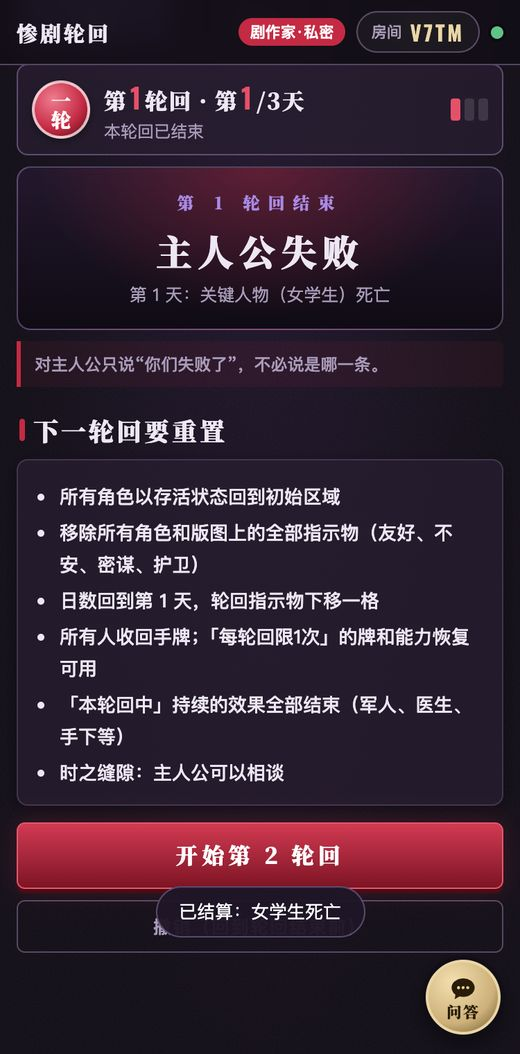
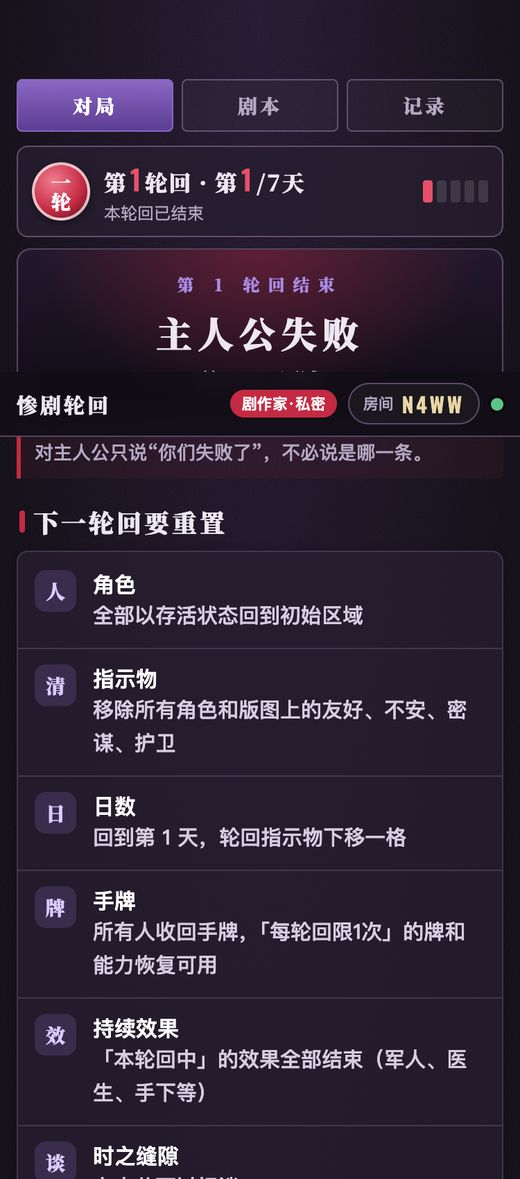
剧作家流程 UI：阶段卡片、分组提醒、步骤式摆放清单、轮回重置列表，放大加粗文字，底部固定操作栏

diff --git a/public/app.js b/public/app.js
@@ -11,6 +11,20 @@ const store = {
 };
 const ZH = ['零', '一', '二', '三', '四', '五', '六', '七', '八', '九', '十'];
 const LV = { must: '强制', loss: '可判负', may: '任意', info: '提示' };
+// Groups of the reminder list, in the order the rules resolve them.
+const GROUPS = [['must', '必须结算', '条件满足，规则不让你选'], ['loss', '可以让主人公失败', '任意能力，用不用由你决定'], ['may', '可以使用', '任意能力和每轮回 1 次的牌'], ['info', '留意', '']];
+// One line on what happens in each phase.
+const PHASE_TIP = {
+  dayStart: '有角色今天登场就放上版图，确认今天是不是最后一天',
+  mmCards: '你从手牌选 3 张，背面朝上放在 3 个不同的角色或版图上',
+  proCards: '队长先出，每名主人公各暗置 1 张',
+  resolve: '翻开 6 张牌，先结算移动，再结算其他牌',
+  mmAbility: '使用身份和规则给你的能力，每个能力各用 1 次',
+  gwAbility: '主人公宣言友好能力，你决定结算还是拒绝',
+  incident: '判定今天的事件是否发生，发生就结算效果',
+  leader: '队长卡交给左手边的主人公',
+  dayEnd: '先结算强制能力，再决定要不要用任意能力'
+};
 
 const qs = new URLSearchParams(location.search);
 let code = cleanCode(qs.get('r'));
@@ -74,6 +88,7 @@ function render() {
   t.innerHTML = view();
   morph($('#app'), t);
   $('#sheet').innerHTML = ui.sheet && S ? sheetView() : '';
+  document.body.classList.toggle('has-dock', !!$('.dock'));
   // keep the current phase in view on the phase strip
   const strip = $('.phases'), on = strip?.querySelector('.on');
   if (on && render.ph !== `${S.loop}-${S.day}-${S.ph}`) { render.ph = `${S.loop}-${S.day}-${S.ph}`; strip.scrollLeft = on.offsetLeft - strip.clientWidth / 2 + on.offsetWidth / 2; }
@@ -188,18 +203,20 @@ function checklist(sc) {
   const cast = Object.keys(sc.cast).map(id => { const ex = extraOf(sc, id), st = CHARS[id].start;
     return `${CHARS[id].name}（${ex.enterLoop ? `第 ${ex.enterLoop} 轮回才登场，${LOC_ZH[st]}` : ex.enterDay ? `第 ${ex.enterDay} 天才登场，${LOC_ZH[st]}` : st ? LOC_ZH[st] : '初始区域自选'}）`; }).join('、');
   const items = [
-    `拿出「${set.name}」模组速查表，放在大家都看得到的地方`,
-    `写公开信息卡（交给主人公）：模组 ${set.name}、${opt[0]} 轮回、每轮回 ${sc.days} 天、事件日程 ${sc.incidents.map(([d, k]) => `第${d}天${INCIDENTS[k].name}`).join('、')}${sc.special.length ? `、特殊规则：${sc.special.join('；')}` : ''}`,
-    `写非公开信息卡（自己收好）：规则Y ${PLOTS[sc.y].name}，规则X ${sc.x.map(x => PLOTS[x].name).join('、')}，各角色身份，事件当事人`,
-    `摆 4 块版图：左上医院、右上神社、左下都市、右下学校`,
-    `放角色卡到初始区域：${cast}`,
-    ...Object.entries(sc.extra || {}).filter(([, ex]) => ex.turf).map(([id, ex]) => `${CHARS[id].name}的领地是${LOC_ZH[ex.turf]}：在${LOC_ZH[ex.turf]}放领地标志`),
-    `轮回指示物放在 ${opt[0]}，日数指示物放在第 1 天；事件指示物放到各事件日`,
-    `剧作家手牌 10 张：移动↑↓、移动←→、移动斜向（每轮回1次）、禁止友好、不安+1 ×2、不安−1、禁止不安、密谋+1、密谋+2（每轮回1次）${sc.special.length ? `——特殊规则：${sc.special.join('；')}` : ''}`,
-    '每名主人公 8 张：移动↑↓、移动←→、移动禁止、友好+1、友好+2、不安+1、不安−1、禁止密谋（禁止移动、友好+2、不安−1 每轮回限1次）',
-    '决定首任队长，把队长卡交给他；时之缝隙里主人公可以相谈'
+    ['摆出模组速查表', `「${set.name}」速查表放在大家都看得到的地方`],
+    ['写公开信息卡，交给主人公', `模组 ${set.name}、${opt[0]} 轮回、每轮回 ${sc.days} 天；事件日程：${sc.incidents.map(([d, k]) => `第${d}天${INCIDENTS[k].name}`).join('、')}${sc.special.length ? `；特殊规则：${sc.special.join('；')}` : ''}`],
+    ['写非公开信息卡，自己收好', `规则Y ${PLOTS[sc.y].name}，规则X ${sc.x.map(x => PLOTS[x].name).join('、')}，各角色身份，事件当事人`],
+    ['摆 4 块版图', '左上医院、右上神社、左下都市、右下学校'],
+    ['放角色卡到初始区域', cast],
+    ...Object.entries(sc.extra || {}).filter(([, ex]) => ex.turf).map(([id, ex]) => [`放${CHARS[id].name}的领地标志`, `领地是${LOC_ZH[ex.turf]}`]),
+    ['放指示物', `轮回指示物放在 ${opt[0]}，日数指示物放在第 1 天，事件指示物放到各事件日`],
+    ['剧作家手牌 10 张', `移动↑↓、移动←→、移动斜向（每轮回1次）、禁止友好、不安+1 ×2、不安−1、禁止不安、密谋+1、密谋+2（每轮回1次）${sc.special.length ? `。特殊规则：${sc.special.join('；')}` : ''}`],
+    ['每名主人公 8 张手牌', '移动↑↓、移动←→、移动禁止、友好+1、友好+2、不安+1、不安−1、禁止密谋；移动禁止、友好+2、不安−1 每轮回限 1 次'],
+    ['决定首任队长', '把队长卡交给他；时之缝隙里主人公可以相谈']
   ];
-  return `<div class="card">${items.map((x, i) => `<label class="check${done[i] ? ' done' : ''}" data-k="ck-${sc.id}-${i}"><input type="checkbox" data-act="check" data-i="${i}" ${done[i] ? 'checked' : ''}><span>${esc(x)}</span></label>`).join('')}</div>`;
+  const n = items.filter((x, i) => done[i]).length;
+  return `<div class="card steps"><div class="steps-top"><span>已完成 ${n}/${items.length}</span><div class="steps-bar"><i style="width:${Math.round(n / items.length * 100)}%"></i></div></div>
+    ${items.map(([h, x], i) => `<label class="step${done[i] ? ' done' : ''}" data-k="ck-${sc.id}-${i}"><input type="checkbox" data-act="check" data-i="${i}" ${done[i] ? 'checked' : ''}><span class="sn">${done[i] ? '✓' : i + 1}</span><span class="st"><b>${esc(h)}</b><span>${esc(x)}</span></span></label>`).join('')}</div>`;
 }
 
 function inviteCard() {
@@ -214,27 +231,41 @@ function qrData(text) {
 }
 
 function playView(sc) {
-  const rem = reminders(S), cur = PHASES[S.ph].k, last = S.day === sc.days;
-  const items = ui.all ? PHASES.flatMap(p => (rem[p.k] || []).length ? [`<div class="fq-cat" style="margin:10px 2px 2px">${p.n}</div>`, ...(rem[p.k]).map(remItem)] : []) : (rem[cur] || []).map(remItem);
-  const nextBtn = S.ph < PHASES.length - 1 ? `<button class="btn" data-act="phnext">下一阶段：${PHASES[S.ph + 1].n}</button>`
-    : last ? `<button class="btn" data-act="endloop">结束本轮回（检查失败条件）</button>` : `<button class="btn" data-act="day">进入第 ${S.day + 1} 天</button>`;
+  const rem = reminders(S), cur = PHASES[S.ph], last = S.day === sc.days;
+  const next = S.ph < PHASES.length - 1 ? `<button class="btn" data-act="phnext">下一阶段：${PHASES[S.ph + 1].n}</button>`
+    : last ? `<button class="btn" data-act="endloop">结束本轮回</button>` : `<button class="btn" data-act="day">进入第 ${S.day + 1} 天</button>`;
+  const body = ui.all
+    ? PHASES.map((p, i) => (rem[p.k] || []).length ? `<div class="pc-sub"><span>${i + 1}</span>${p.n}</div>${remList(rem[p.k])}` : '').join('')
+    : remList(rem[cur.k] || []) || '<div class="pc-empty">这一阶段没有要你结算的东西，直接进入下一阶段。</div>';
   return `${statusStrip(S, maxLoops(S), sc.days)}${phaseStrip(S.ph, true)}
+    <div class="card pc" data-k="pc">
+      <div class="pc-head"><span class="pc-no">${S.ph + 1}<small>/9</small></span><div><b>${ui.all ? '今天的全部阶段' : cur.n}</b><em>${ui.all ? '按阶段列出今天要结算的东西' : PHASE_TIP[cur.k]}</em></div>
+        <button class="pc-all" data-act="all">${ui.all ? '只看当前' : '看全天'}</button></div>
+      ${last && !ui.all && cur.k === 'dayEnd' ? '<div class="pc-last">今天是本轮回最后一天：回合结束后结束本轮回，检查失败条件</div>' : ''}
+      <div class="pc-body">${body}</div>
+    </div>
     ${board(S, true)}
-    <h2 class="h"><span>${ui.all ? '今天各阶段' : `${PHASES[S.ph].n}阶段`}要结算</span><small><button class="btn ghost sm" data-act="all" style="width:auto;padding:0 10px;height:28px;margin:0">${ui.all ? '只看当前' : '看全部阶段'}</button></small></h2>
-    <div class="rem">${items.join('') || '<div class="ri info"><i>提示</i><div>这一阶段没有要剧作家结算的东西</div></div>'}</div>
-    ${nextBtn}
-    <div class="btns"><button class="btn ghost" data-act="undo" ${S.canUndo ? '' : 'disabled'}>撤销上一步</button><button class="btn ghost" data-act="lose">记录主人公失败/死亡</button></div>
-    <div class="btns"><button class="btn ghost" data-act="note">记一笔</button><button class="btn ghost" data-act="publicview">看公开视图</button></div>`;
+    <div class="btns more"><button class="btn ghost" data-act="lose">记录失败/死亡</button><button class="btn ghost" data-act="note">记一笔</button><button class="btn ghost" data-act="publicview">公开视图</button></div>
+    <div class="dock" data-k="dock"><div class="dock-in"><button class="btn ghost" data-act="undo" ${S.canUndo ? '' : 'disabled'} aria-label="撤销上一步">撤销</button>${next}</div></div>`;
 }
 function remItem(r) {
   const a = r.act;
   let btn = '';
-  if (a?.t === 'inc') btn = `<button data-act="incsheet" data-k="${a.k}">${a.meet ? '结算事件' : '记录未发生'}</button>`;
-  else if (a?.t === 'ch') btn = `<button data-act="kill" data-id="${a.id}" data-why="${esc(a.why)}">${r.level === 'must' ? '结算死亡' : '使用'}</button>`;
-  else if (a?.t === 'lose') btn = `<button data-act="lose" data-why="${esc(a.why)}" data-death="${a.death ? 1 : ''}">使用</button>`;
-  else if (a?.t === 'once') btn = `<button data-act="once" data-k="${a.k}">${S.once[a.k] ? '改为未用' : '标记已用'}</button>`;
-  else if (a?.t === 'flag') btn = `<button data-act="flag" data-k="${a.k}" data-on="${a.on ? 1 : ''}">${a.on ? '已生效' : '取消'}</button>`;
-  return `<div class="ri ${r.level}"><i>${LV[r.level]}</i><div>${esc(r.text)}</div>${btn}</div>`;
+  if (a?.t === 'inc') btn = `<button data-act="incsheet" data-k="${a.k}">${a.meet ? '结算事件' : '记录：未发生'}</button>`;
+  else if (a?.t === 'ch') btn = `<button data-act="kill" data-id="${a.id}" data-why="${esc(a.why)}">${r.level === 'must' ? '结算死亡' : '使用这个能力'}</button>`;
+  else if (a?.t === 'lose') btn = `<button data-act="lose" data-why="${esc(a.why)}" data-death="${a.death ? 1 : ''}">使用这个能力</button>`;
+  else if (a?.t === 'once') btn = `<button data-act="once" data-k="${a.k}">${S.once[a.k] ? '改回未用' : '标记已用'}</button>`;
+  else if (a?.t === 'flag') btn = `<button data-act="flag" data-k="${a.k}" data-on="${a.on ? 1 : ''}">${a.on ? '标记生效' : '取消'}</button>`;
+  // "主谋（医生，医院）：给同区域…" → the part before the first colon becomes the item's title
+  const m = r.text.match(/^(.{2,26}?)[：:](.+)$/s);
+  const body = m ? `<b>${esc(m[1])}</b><span>${esc(m[2].replace(/^——/, ''))}</span>` : `<span>${esc(r.text)}</span>`;
+  return `<div class="ri ${r.level}"><div class="rt">${body}</div>${btn ? `<div class="ra">${btn}</div>` : ''}</div>`;
+}
+function remList(items) {
+  return GROUPS.map(([lv, name, sub]) => {
+    const g = items.filter(r => r.level === lv);
+    return g.length ? `<div class="rg ${lv}"><div class="rh"><i></i>${name}<small>${sub}</small></div>${g.map(remItem).join('')}</div>` : '';
+  }).join('');
 }
 
 function loopEndView(sc) {
@@ -258,14 +289,14 @@ function loopEndView(sc) {
       <div class="fg">${e.lost ? `第 ${e.day} 天：${e.why.map(esc).join('；')}` : '本轮回没有满足任何失败条件，主人公也没有死亡'}</div></div>
     <p class="note">对主人公只说“你们失败了”，不必说是哪一条。${friendsDead.length ? `<b>亲友死亡必须公开身份：${friendsDead.map(id => CHARS[id].name).join('、')}是亲友。</b>` : ''}</p>
     ${e.lost && !lastLoop ? `<h2 class="h"><span>下一轮回要重置</span></h2>
-    <div class="card route"><ul class="dots">
-      <li>所有角色以存活状态回到初始区域${hench.length ? '（手下的初始区域重新选）' : ''}</li>
-      <li>移除所有角色和版图上的全部指示物（友好、不安、密谋、护卫）</li>
-      <li>日数回到第 1 天，轮回指示物下移一格</li>
-      <li>所有人收回手牌；「每轮回限1次」的牌和能力恢复可用</li>
-      <li>「本轮回中」持续的效果全部结束（军人、医生、手下等）</li>
-      <li>时之缝隙：主人公可以相谈</li></ul></div>
-    ${auto.length ? `<h2 class="h"><span>轮回开始时自动放置</span><small>本站会自动记上</small></h2><div class="card route"><ul class="dots">${auto.map(x => `<li>${esc(x)}</li>`).join('')}</ul></div>` : ''}` : ''}
+    <div class="card resets">
+      ${[['人', '角色', `全部以存活状态回到初始区域${hench.length ? '，手下的初始区域重新选' : ''}`],
+        ['清', '指示物', '移除所有角色和版图上的友好、不安、密谋、护卫'],
+        ['日', '日数', '回到第 1 天，轮回指示物下移一格'],
+        ['牌', '手牌', '所有人收回手牌，「每轮回限1次」的牌和能力恢复可用'],
+        ['效', '持续效果', '「本轮回中」的效果全部结束（军人、医生、手下等）'],
+        ['谈', '时之缝隙', '主人公可以相谈']].map(([ic, h, x]) => `<div class="rs"><span>${ic}</span><div><b>${h}</b>${x}</div></div>`).join('')}</div>
+    ${auto.length ? `<h2 class="h"><span>轮回开始时自动放置</span><small>本站会自动记上</small></h2><div class="card resets">${auto.map(x => `<div class="rs auto"><span>+</span><div>${esc(x)}</div></div>`).join('')}</div>` : ''}` : ''}
     ${action}
     <button class="btn ghost" data-act="undo" ${S.canUndo ? '' : 'disabled'}>撤销（回到轮回结束前）</button>`;
 }

diff --git a/public/style.css b/public/style.css
@@ -2,7 +2,7 @@
 :root{
   --bg:#110d16; --bg2:#1a1421; --panel:rgba(38,29,48,.78); --panel2:rgba(58,44,72,.6);
   --line:rgba(190,160,220,.2); --line2:rgba(190,160,220,.38);
-  --ink:#ede7f3; --ink2:#a99cb9; --ink3:#74688a;
+  --ink:#ede7f3; --ink2:#b4a8c4; --ink3:#74688a;
   --red:#c42a43; --red2:#e65069; --redd:#7d1424;
   --violet:#5d3d92; --violet2:#8a67c4; --violetd:#2b1d45;
   --steel:#09070c; --steel2:#1d1626; --gold:#cdb07a; --gold2:#ead6a6;
@@ -54,7 +54,7 @@ h2.h{display:flex;align-items:baseline;justify-content:space-between;gap:8px;mar
 h2.h:before{content:"";flex:none;align-self:center;width:4px;height:16px;margin-right:-2px;border-radius:2px;background:var(--red)}
 h2.h span{flex:1}
 h2.h small{font:500 12px var(--sans);letter-spacing:0;color:var(--ink2)}
-.note{font:500 12px/1.6 var(--sans);color:var(--ink2);padding:7px 10px;border-left:3px solid var(--red);background:rgba(196,42,67,.08);margin-top:8px;border-radius:0 4px 4px 0}
+.note{font:500 13.5px/1.65 var(--sans);color:var(--ink2);padding:7px 10px;border-left:3px solid var(--red);background:rgba(196,42,67,.08);margin-top:8px;border-radius:0 4px 4px 0}
 .note b{color:var(--red2)}
 .note.secret{border-left-color:var(--gold);background:rgba(205,176,122,.08)}
 .note.secret b{color:var(--gold2)}
@@ -105,7 +105,7 @@ a{color:var(--c-p)}
 /* phase stepper */
 .phases{display:flex;gap:4px;margin-top:8px;overflow-x:auto;padding-bottom:2px;scrollbar-width:none}
 .phases::-webkit-scrollbar{display:none}
-.phases button{flex:none;height:30px;padding:0 9px;border-radius:15px;border:1px solid var(--line2);background:transparent;color:var(--ink2);font:600 12px var(--sans);white-space:nowrap}
+.phases button{flex:none;height:34px;padding:0 12px;border-radius:17px;border:1px solid var(--line2);background:transparent;color:var(--ink2);font:600 13.5px var(--sans);white-space:nowrap}
 .phases button.on{background:var(--red);border-color:var(--red2);color:#fff}
 .phases button.done{color:var(--ink3)}
 
@@ -130,40 +130,90 @@ a{color:var(--c-p)}
 .tk.lim{box-shadow:0 0 0 2px #fff}
 .bdI{display:inline-flex;align-items:center;gap:3px;font:600 12px var(--sans);color:var(--ink2)}
 
-/* reminders */
-.rem{display:flex;flex-direction:column;gap:6px;margin-top:8px}
-.ri{display:flex;align-items:flex-start;gap:8px;padding:8px 10px;border-radius:8px;border:1px solid var(--line);background:var(--panel);font:500 13px/1.55 var(--sans)}
-.ri i{flex:none;margin-top:1px;padding:0 6px;border-radius:4px;font:700 11px/18px var(--sans);font-style:normal}
-.ri.must i{background:var(--red);color:#fff}
-.ri.loss i{background:#f0c24b;color:#2a1a00}
-.ri.may i{background:var(--violet);color:#fff}
-.ri.info i{background:rgba(255,255,255,.12);color:var(--ink2)}
-.ri.must{border-color:rgba(196,42,67,.6)}
-.ri.loss{border-color:rgba(240,194,75,.55)}
-.ri div{flex:1;min-width:0}
-.ri button{flex:none;align-self:center;height:30px;padding:0 10px;border-radius:5px;border:1px solid var(--line2);background:rgba(255,255,255,.06);font:700 12px var(--sans)}
-.ri.must button{background:var(--red);border-color:var(--red2);color:#fff}
-.ri.loss button{background:#f0c24b;border-color:#f0c24b;color:#2a1a00}
+/* the current phase and what to resolve in it */
+.pc{margin-top:10px;overflow:hidden;border-color:var(--line2)}
+.pc-head{display:flex;align-items:center;gap:12px;padding:12px 12px 10px;background:linear-gradient(180deg,rgba(196,42,67,.18),rgba(196,42,67,0));border-bottom:1px solid var(--line)}
+.pc-no{flex:none;display:flex;align-items:baseline;justify-content:center;width:48px;height:48px;padding-top:9px;border-radius:12px;background:var(--red);color:#fff;font:600 24px/1 var(--num);box-shadow:0 4px 12px rgba(196,42,67,.35)}
+.pc-no small{font:500 12px var(--num);opacity:.75;margin-left:1px}
+.pc-head div{flex:1;min-width:0}
+.pc-head b{display:block;font:900 20px/1.25 var(--serif);letter-spacing:2px}
+.pc-head em{display:block;margin-top:3px;font:500 14px/1.5 var(--sans);font-style:normal;color:var(--ink2)}
+.pc-all{flex:none;align-self:flex-start;height:30px;padding:0 10px;border-radius:15px;border:1px solid var(--line2);background:rgba(255,255,255,.04);color:var(--ink2);font:600 12.5px var(--sans)}
+.pc-last{margin:10px 12px 0;padding:8px 10px;border-radius:8px;background:rgba(240,194,75,.12);border:1px solid rgba(240,194,75,.4);color:#f3d27a;font:600 14px/1.5 var(--sans)}
+.pc-body{padding:4px 12px 12px}
+.pc-empty{padding:14px 2px 4px;font:500 15px/1.6 var(--sans);color:var(--ink2)}
+.pc-sub{display:flex;align-items:center;gap:8px;margin:16px 0 0;font:900 16px var(--serif);letter-spacing:1px}
+.pc-sub span{display:inline-grid;place-items:center;width:22px;height:22px;border-radius:50%;background:var(--violet);color:#fff;font:600 12px var(--num)}
+.rg{margin-top:12px}
+.rh{display:flex;align-items:center;gap:7px;margin-bottom:7px;font:700 14px var(--sans);letter-spacing:1px}
+.rh i{width:8px;height:8px;border-radius:50%;background:var(--ink3)}
+.rh small{margin-left:auto;font:500 12px var(--sans);letter-spacing:0;color:var(--ink3)}
+.rg.must .rh{color:var(--red2)}.rg.must .rh i{background:var(--red2);box-shadow:0 0 0 3px rgba(230,80,105,.25)}
+.rg.loss .rh{color:#f3d27a}.rg.loss .rh i{background:#f0c24b}
+.rg.may .rh{color:#bba4ee}.rg.may .rh i{background:var(--violet2)}
+.rg.info .rh{color:var(--ink2)}
+.ri{margin-top:8px;padding:11px 12px;border-radius:10px;border:1px solid var(--line);border-left:4px solid var(--ink3);background:rgba(255,255,255,.035)}
+.rg .ri:first-of-type{margin-top:0}
+.ri.must{border-left-color:var(--red2);background:rgba(196,42,67,.1)}
+.ri.loss{border-left-color:#f0c24b;background:rgba(240,194,75,.07)}
+.ri.may{border-left-color:var(--violet2)}
+.rt{font:500 15.5px/1.65 var(--sans);color:var(--ink)}
+.rt b{display:block;margin-bottom:2px;font:700 15.5px/1.45 var(--sans);color:#fff}
+.ri.info .rt{color:#d6cde0}
+.ra{display:flex;justify-content:flex-end;margin-top:9px}
+.ra button{min-height:38px;padding:0 16px;border-radius:8px;border:1px solid var(--line2);background:rgba(255,255,255,.07);font:700 14.5px var(--sans);letter-spacing:1px}
+.ri.must .ra button{background:var(--red);border-color:var(--red2);color:#fff;box-shadow:0 3px 10px rgba(196,42,67,.35)}
+.ri.loss .ra button{background:#f0c24b;border-color:#f0c24b;color:#2a1a00}
+.ri.may .ra button{border-color:var(--violet2);color:#d9cbff}
+.more{margin-top:4px}.more .btn{font-size:13.5px;letter-spacing:0}
+/* bottom bar in play: undo + next */
+.dock{position:fixed;left:0;right:0;bottom:0;z-index:16;padding:10px 12px calc(env(safe-area-inset-bottom) + 10px);background:linear-gradient(180deg,rgba(17,13,22,0),rgba(17,13,22,.92) 30%);pointer-events:none}
+.dock-in{display:flex;gap:8px;max-width:520px;margin:0 auto;pointer-events:auto}
+.dock .btn{margin-top:0;height:52px}
+.dock .btn:not(.ghost){flex:1;font-size:17px;letter-spacing:2px}
+.dock .btn.ghost{flex:none;width:76px;height:52px;background:rgba(26,20,33,.95);font-size:14px}
+body.has-dock{padding-bottom:calc(env(safe-area-inset-bottom) + 150px)}
+body.has-dock .cfab{bottom:calc(env(safe-area-inset-bottom) + 80px)}
+/* setup checklist and loop-end lists */
+.steps{padding:4px 0}
+.steps-top{display:flex;align-items:center;gap:10px;padding:10px 12px 6px;font:700 13.5px var(--sans);color:var(--ink2)}
+.steps-bar{flex:1;height:6px;border-radius:3px;background:rgba(255,255,255,.08);overflow:hidden}
+.steps-bar i{display:block;height:100%;background:linear-gradient(90deg,var(--red),var(--red2));border-radius:3px;transition:width .25s}
+.step{display:flex;align-items:flex-start;gap:12px;padding:12px;border-top:1px solid var(--line);cursor:pointer}
+.step input{position:absolute;opacity:0;pointer-events:none}
+.step .sn{flex:none;display:grid;place-items:center;width:30px;height:30px;border-radius:50%;border:2px solid var(--line2);font:600 15px var(--num);color:var(--ink2)}
+.step .st{flex:1;min-width:0}
+.step .st b{display:block;font:700 16px/1.45 var(--sans);color:#fff}
+.step .st span{display:block;margin-top:3px;font:500 14.5px/1.65 var(--sans);color:#cfc5da}
+.step.done .sn{background:var(--red);border-color:var(--red);color:#fff;font:700 16px var(--sans)}
+.step.done .st b,.step.done .st span{color:var(--ink3)}
+.step.done .st b{text-decoration:line-through}
+.resets{padding:2px 0}
+.rs{display:flex;align-items:flex-start;gap:12px;padding:11px 12px;border-top:1px solid var(--line);font:500 15px/1.6 var(--sans);color:#d6cde0}
+.rs:first-child{border-top:none}
+.rs span{flex:none;display:grid;place-items:center;width:30px;height:30px;border-radius:8px;background:rgba(141,103,196,.22);color:#d9cbff;font:900 14px var(--serif)}
+.rs b{display:block;font:700 15.5px var(--sans);color:#fff}
+.rs.auto span{background:rgba(95,194,135,.2);color:#9fe3b8;font:700 18px var(--sans)}
 
 /* script sheets */
 .sheetc{padding:10px 12px}
 .sheetc h3{display:flex;align-items:center;gap:8px;font:900 15px var(--serif);letter-spacing:1px}
 .sheetc h3 em{font:700 11px var(--sans);font-style:normal;padding:1px 7px;border-radius:9px;background:var(--violet);color:#fff}
 .sheetc h3 em.sec{background:var(--red)}
-.kv{display:grid;grid-template-columns:auto 1fr;gap:4px 10px;margin-top:8px;font-size:13px;line-height:1.5}
+.kv{display:grid;grid-template-columns:auto 1fr;gap:5px 12px;margin-top:8px;font-size:14.5px;line-height:1.55}
 .kv dt{color:var(--ink2)}
 .kv dd b{color:var(--gold2)}
-table.tb{width:100%;margin-top:8px;border-collapse:collapse;font-size:13px}
+table.tb{width:100%;margin-top:8px;border-collapse:collapse;font-size:14.5px}
 .tb th,.tb td{padding:6px 6px;border-bottom:1px solid var(--line);text-align:left;vertical-align:top}
-.tb th{font:600 11.5px var(--sans);color:var(--ink2)}
+.tb th{font:600 12.5px var(--sans);color:var(--ink2)}
 .tb td.r{color:var(--gold2);font-weight:700}
-.check{display:flex;align-items:flex-start;gap:9px;padding:8px 10px;font-size:13.5px;line-height:1.55;cursor:pointer}
+.check{display:flex;align-items:flex-start;gap:10px;padding:10px 12px;font-size:15px;line-height:1.6;cursor:pointer}
 .check input{flex:none;width:18px;height:18px;margin-top:2px;accent-color:var(--red)}
 .check.done span{color:var(--ink3);text-decoration:line-through}
 .route{padding:10px 12px}
-.route b{display:block;font:900 14.5px var(--serif);color:var(--gold2);letter-spacing:1px}
-.route p{margin-top:4px;font:500 13.5px/1.7 var(--sans);color:var(--ink)}
-ul.dots{margin:6px 0 0 18px;font:500 13.5px/1.7 var(--sans)}
+.route b{display:block;font:900 16px var(--serif);color:var(--gold2);letter-spacing:1px}
+.route p{margin-top:5px;font:500 15px/1.75 var(--sans);color:var(--ink)}
+ul.dots{margin:6px 0 0 18px;font:500 15px/1.75 var(--sans)}
 ul.dots li+li{margin-top:3px}
 .src{margin-top:8px;font-size:11.5px;color:var(--ink3)}
 
@@ -173,8 +223,8 @@ ul.dots li+li{margin-top:3px}
   background:var(--bg2);border-top:2px solid var(--red);border-radius:14px 14px 0 0;box-shadow:0 -8px 30px rgba(0,0,0,.6)}
 .sheet h3{font:900 16px var(--serif);letter-spacing:1px}
 .sheet h3 small{font:500 12px var(--sans);color:var(--ink2);margin-left:6px}
-.sheet .hint{font-size:12px;color:var(--ink2);margin-top:3px;line-height:1.55}
-.sheet .lbl{margin:12px 0 6px;font:700 12px var(--sans);color:var(--ink2);letter-spacing:1px}
+.sheet .hint{font-size:14px;color:var(--ink2);margin-top:4px;line-height:1.6}
+.sheet .lbl{margin:14px 0 7px;font:700 13.5px var(--sans);color:var(--ink2);letter-spacing:1px}
 .stp{display:flex;align-items:center;gap:6px}
 .stp .tk{min-width:26px;height:26px;font-size:15px;border-radius:13px}
 .stp b{flex:1;font:700 14px var(--sans)}
@@ -243,7 +293,7 @@ ul.dots li+li{margin-top:3px}
   background:radial-gradient(ellipse at 50% 0%,rgba(196,42,67,.38),transparent 65%),linear-gradient(180deg,#22182d,#0f0b14);border:1px solid var(--line2)}
 .mvp .crown{font:700 12px var(--serif);letter-spacing:6px;color:var(--c-p)}
 .mvp .nm{font:900 26px var(--serif);letter-spacing:4px;margin-top:8px}
-.mvp .fg{font-size:12.5px;color:var(--ink2);margin-top:4px;line-height:1.6}
+.mvp .fg{font-size:14px;color:#cfc5da;margin-top:5px;line-height:1.65}
 .mvp .pts{font:600 40px/1.1 var(--num);color:var(--red2);margin-top:6px}
 .mvp .pts small{font:500 13px var(--sans);color:var(--ink2);margin-left:3px}
 .tl{position:relative;margin-top:8px;padding-left:18px}
@@ -254,7 +304,7 @@ ul.dots li+li{margin-top:3px}
 .tl .lp h4{display:flex;justify-content:space-between;font:900 14.5px var(--serif);letter-spacing:1px}
 .tl .lp h4 span{font:600 12px var(--sans);color:var(--red2)}
 .tl .lp.win h4 span{color:var(--ok)}
-.tl .lp ul{margin:5px 0 0 16px;font-size:12.5px;line-height:1.6;color:var(--ink2)}
+.tl .lp ul{margin:5px 0 0 16px;font-size:14px;line-height:1.65;color:#cfc5da}
 .shotv{position:fixed;inset:0;z-index:60;overflow:auto;padding:0 16px 24px;background:rgba(9,7,12,.95)}
 .shotv img{display:block;width:100%;max-width:480px;margin:0 auto;border-radius:6px;box-shadow:0 6px 24px rgba(0,0,0,.5)}
 .sv-top{position:sticky;top:0;display:flex;align-items:center;gap:10px;max-width:480px;margin:0 auto;padding:12px 0 10px;background:rgba(9,7,12,.95);color:var(--gold2);font:600 14px var(--sans)}
@@ -263,7 +313,7 @@ ul.dots li+li{margin-top:3px}
 footer{margin-top:18px;text-align:center;font-size:10.5px;line-height:1.6;color:var(--ink3)}
 .toast{position:fixed;left:50%;bottom:calc(env(safe-area-inset-bottom) + 84px);transform:translateX(-50%);z-index:70;max-width:86vw;padding:8px 16px;border-radius:20px;background:rgba(30,22,40,.96);border:1px solid var(--line2);color:#fff;font-size:13px;line-height:1.5}
 .log{margin-top:6px;padding:4px 10px}
-.log div{padding:5px 0;border-bottom:1px dashed var(--line);font-size:12.5px;line-height:1.55;color:var(--ink2)}
+.log div{padding:7px 0;border-bottom:1px dashed var(--line);font-size:14px;line-height:1.6;color:#cfc5da}
 .log div:last-child{border-bottom:none}
 .log div b{color:var(--ink);font-weight:600;margin-right:6px}
 .log div.note{border-left:none;background:none;margin:0;padding:5px 0;color:var(--gold2)}

diff --git a/README.md b/README.md
@@ -45,7 +45,7 @@
 
 ### 设置：按清单摆放
 
-建房间、选剧本和轮回数后，助手列出摆放清单：模组速查表、公开信息卡和非公开信息卡要写什么、4 块版图、每个角色的初始区域（神灵第几轮回登场、转校生第几天登场、大人物的领地、手下的初始区域由剧作家每轮回选）、指示物、剧作家和主人公的手牌（含特殊规则拿掉的牌）。勾掉做完的项。旁边是给主人公扫的二维码。
+建房间、选剧本和轮回数后，助手列出摆放清单：模组速查表、公开信息卡和非公开信息卡要写什么、4 块版图、每个角色的初始区域（神灵第几轮回登场、转校生第几天登场、大人物的领地、手下的初始区域由剧作家每轮回选）、指示物、剧作家和主人公的手牌（含特殊规则拿掉的牌）。做成带序号的步骤卡，勾掉做完的项，顶部显示进度。旁边是给主人公扫的二维码。
 
 <p>
 <img src="docs/screenshots/setup.jpg" width="260" alt="设置清单">
@@ -54,7 +54,7 @@
 ### 对局：版图、指示物、按阶段提醒
 
 - 2×2 版图和桌上一样：左上医院、右上神社、左下都市、右下学校。点角色改区域、友好/不安/密谋/护卫、标记死亡；点版图改密谋。
-- 每天 9 个阶段（回合开始 … 回合结束），每个阶段列出这时该结算的东西，强制的排在任意的前面：
+- 每天 9 个阶段（回合开始 … 回合结束）。当前阶段卡片上写着这一阶段谁做什么，下面按“必须结算 / 可以让主人公失败 / 可以使用 / 留意”分组列出该结算的东西，能直接点按钮结算；也可以切到“看全天”。撤销和“下一阶段”固定在屏幕底部。各阶段的提醒包括：
   - 剧作家行动：「移动斜向」「密谋+2」本轮回用了没有、特殊规则；
   - 行动结算：移动先结算、禁止类牌、两人都出禁止密谋全部失效、邪教徒无视禁止密谋、时间旅者无视禁止友好、禁止区域；
   - 剧作家能力：主谋、传谣人、不安定因子、流言四起（每轮回 1 次）、医生（身份无视友好且有 2 友好时）、大人物的领地；
